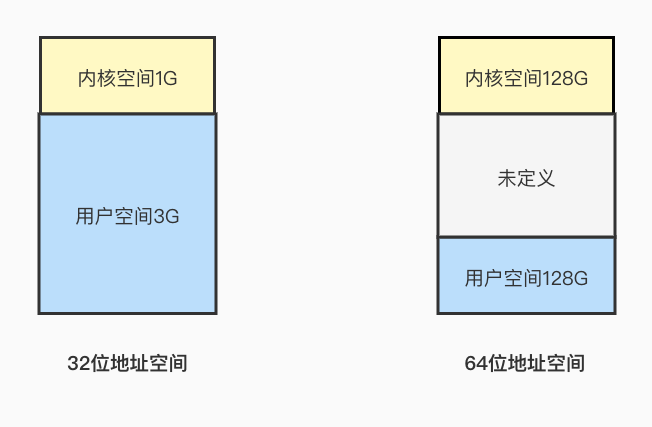
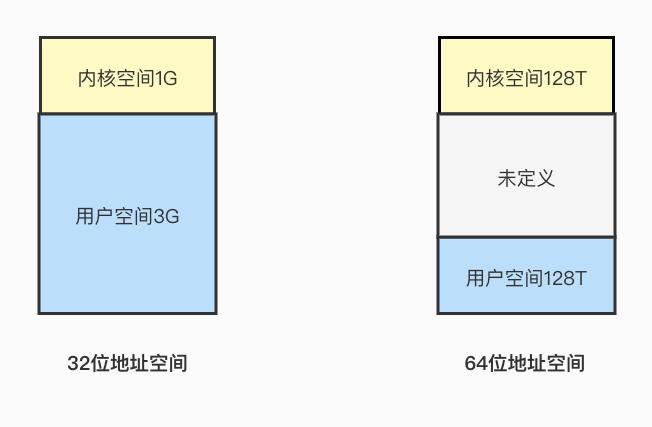
Site updated: 2021-11-07 21:09:48

Changed region(s): [[0.7055, 0.1522, 0.9202, 0.2131], [0.7055, 0.6089, 0.9202, 0.6698]]

diff --git a/2021/11/07/【JAVA】IO访问方式/index.html b/2021/11/07/【JAVA】IO访问方式/index.html
@@ -79,24 +79,24 @@
 
 
 
-<meta name="description" content="物理内存 计算机物理内存条的容量，比如我们买电脑会关注内存大小有多少G，这个容量就是计算机的物理内存。 虚拟内存 操作系统为每个进程分配了独立的虚拟地址空间，也就是虚拟内存，操作系统的位数不同，虚拟地址空间的大小也不同。32位操作系统虚拟地址空间大小为4G，64位操作系统虚拟地址空间大小为128G，虚拟地址空间又分为用户空间和内核空间。 既然每个进程都拥有一块独立的虚拟地址空间，那么所有进程的虚拟">
+<meta name="description" content="物理内存 计算机物理内存条的容量，比如我们买电脑会关注内存大小有多少G，这个容量就是计算机的物理内存。 虚拟内存 操作系统为每个进程分配了独立的虚拟地址空间，也就是虚拟内存，虚拟地址空间又分为用户空间和内核空间，操作系统的位数不同，虚拟地址空间的大小也不同，32位操作系统虚拟地址内核空间为1G，用户空间大小为3G，64位操作系统用户空间和内核空间大小各为128T： 既然每个进程都拥有一块独立的虚拟">
 <meta name="keywords" content="JAVA">
 <meta property="og:type" content="article">
 <meta property="og:title" content="【JAVA】IO访问方式">
 <meta property="og:url" content="http://yoursite.com/2021/11/07/【JAVA】IO访问方式/index.html">
 <meta property="og:site_name" content="SHAN">
-<meta property="og:description" content="物理内存 计算机物理内存条的容量，比如我们买电脑会关注内存大小有多少G，这个容量就是计算机的物理内存。 虚拟内存 操作系统为每个进程分配了独立的虚拟地址空间，也就是虚拟内存，操作系统的位数不同，虚拟地址空间的大小也不同。32位操作系统虚拟地址空间大小为4G，64位操作系统虚拟地址空间大小为128G，虚拟地址空间又分为用户空间和内核空间。 既然每个进程都拥有一块独立的虚拟地址空间，那么所有进程的虚拟">
+<meta property="og:description" content="物理内存 计算机物理内存条的容量，比如我们买电脑会关注内存大小有多少G，这个容量就是计算机的物理内存。 虚拟内存 操作系统为每个进程分配了独立的虚拟地址空间，也就是虚拟内存，虚拟地址空间又分为用户空间和内核空间，操作系统的位数不同，虚拟地址空间的大小也不同，32位操作系统虚拟地址内核空间为1G，用户空间大小为3G，64位操作系统用户空间和内核空间大小各为128T： 既然每个进程都拥有一块独立的虚拟">
 <meta property="og:locale" content="default">
 <meta property="og:image" content="http://yoursite.com/images/虚拟地址.jpg">
-<meta property="og:image" content="http://yoursite.com/2021/11/07/【JAVA】IO访问方式/images/文件io.jpg">
-<meta property="og:image" content="http://yoursite.com/2021/11/07/【JAVA】IO访问方式/images/网络io.jpg">
-<meta property="og:image" content="http://yoursite.com/2021/11/07/【JAVA】IO访问方式/images/标准io.jpg">
-<meta property="og:image" content="http://yoursite.com/2021/11/07/【JAVA】IO访问方式/images/直接io.jpg">
-<meta property="og:image" content="http://yoursite.com/2021/11/07/【JAVA】IO访问方式/images/内存映射.jpg">
-<meta property="og:updated_time" content="2021-11-07T12:54:51.396Z">
+<meta property="og:image" content="http://yoursite.com/images/文件io.jpg">
+<meta property="og:image" content="http://yoursite.com/images/网络io.jpg">
+<meta property="og:image" content="http://yoursite.com/images/标准io.jpg">
+<meta property="og:image" content="http://yoursite.com/images/直接io.jpg">
+<meta property="og:image" content="http://yoursite.com/images/内存映射.jpg">
+<meta property="og:updated_time" content="2021-11-07T13:09:39.046Z">
 <meta name="twitter:card" content="summary">
 <meta name="twitter:title" content="【JAVA】IO访问方式">
-<meta name="twitter:description" content="物理内存 计算机物理内存条的容量，比如我们买电脑会关注内存大小有多少G，这个容量就是计算机的物理内存。 虚拟内存 操作系统为每个进程分配了独立的虚拟地址空间，也就是虚拟内存，操作系统的位数不同，虚拟地址空间的大小也不同。32位操作系统虚拟地址空间大小为4G，64位操作系统虚拟地址空间大小为128G，虚拟地址空间又分为用户空间和内核空间。 既然每个进程都拥有一块独立的虚拟地址空间，那么所有进程的虚拟">
+<meta name="twitter:description" content="物理内存 计算机物理内存条的容量，比如我们买电脑会关注内存大小有多少G，这个容量就是计算机的物理内存。 虚拟内存 操作系统为每个进程分配了独立的虚拟地址空间，也就是虚拟内存，虚拟地址空间又分为用户空间和内核空间，操作系统的位数不同，虚拟地址空间的大小也不同，32位操作系统虚拟地址内核空间为1G，用户空间大小为3G，64位操作系统用户空间和内核空间大小各为128T： 既然每个进程都拥有一块独立的虚拟">
 <meta name="twitter:image" content="http://yoursite.com/images/虚拟地址.jpg">
 
 
@@ -310,7 +310,7 @@
         <p><strong>物理内存</strong></p>
 <p>计算机物理内存条的容量，比如我们买电脑会关注内存大小有多少G，这个容量就是计算机的物理内存。</p>
 <p><strong>虚拟内存</strong></p>
-<p>操作系统为每个进程分配了独立的虚拟地址空间，也就是虚拟内存，操作系统的位数不同，虚拟地址空间的大小也不同。32位操作系统虚拟地址空间大小为4G，64位操作系统虚拟地址空间大小为128G，虚拟地址空间又分为用户空间和内核空间。<br><img src="/images/虚拟地址.jpg" alt=""></p>
+<p>操作系统为每个进程分配了独立的虚拟地址空间，也就是虚拟内存，虚拟地址空间又分为用户空间和内核空间，操作系统的位数不同，虚拟地址空间的大小也不同，32位操作系统虚拟地址内核空间为1G，用户空间大小为3G，64位操作系统用户空间和内核空间大小各为128T：<br><img src="/images/虚拟地址.jpg" alt=""></p>
 <p>既然每个进程都拥有一块独立的虚拟地址空间，那么所有进程的虚拟地址空间大小加起来必定大于物理内存的大小，所以虚拟地址空间只是一个虚拟的概念，只有需要分配内存的时候才会为虚拟内存分配物理内存，并通过内存映射来管理虚拟地址和物理内存地址之间的映射关系。</p>
 <p><strong>用户空间 / 内核空间</strong></p>
 <p><strong>用户空间：</strong>是运行用户程序代码的地方，为了保证系统内核的安全，它不能直接访问内存等硬件设备，必须通过系统调用进入到内核空间来访问那些受限的资源。</p>
@@ -318,7 +318,7 @@
 <p><strong>用户态：</strong>进程运行在用户空间时处于用户态。</p>
 <p><strong>内核态：</strong>程运行在内核空间时处于内核态。</p>
 <h3 id="文件I-O"><a href="#文件I-O" class="headerlink" title="文件I/O"></a>文件I/O</h3><p>比如我们启动了一个java程序，此时运行在用户空间（用户态），接着准备做一个读取磁盘文件的操作，由于用户空间是无法直接从磁盘读取文件的，所以需要调用内核提供的接口来完成文件的读取，调用内核的接口的过程中由用户空间进入到了内核空间（内核态），操作系统从磁盘读取文件到内核的缓冲区，从内核的缓冲区再拷贝到用户空间才完成文件的读取操作。</p>
-<p><img src="./images/文件io.jpg" alt=""></p>
+<p><img src="/images/文件io.jpg" alt=""></p>
 <ol>
 <li>应用程序发起系统调用</li>
 <li>从用户空间切换到内核空间，内核通过DMA从磁盘拷贝数据到内核缓冲区</li>
@@ -326,13 +326,13 @@
 </ol>
 <p><strong>可以发现，整个读取过程发生了两次数据拷贝，一次是DMA将磁盘上的文件数据拷贝到内核缓冲区，一次是将内核缓冲区的数据拷贝到用户缓冲区。</strong>写操作与读取操作类似，只不过是将用户缓冲区的数据拷贝到内核缓冲区，再将内核缓冲区的数据拷贝到文件。</p>
 <h3 id="网络I-O"><a href="#网络I-O" class="headerlink" title="网络I/O"></a>网络I/O</h3><p>网络I/O与文件I/O的底层原理一致，只不过文件I/O是从磁盘读取文件，网络I/O是从网卡中读取数据，客户端与服务端建立连接，当有数据到达时，从网卡中读取数据到内核缓冲区，再将内核缓冲区的数据复制到用户空间的缓冲区。</p>
-<p><img src="./images/网络io.jpg" alt=""></p>
+<p><img src="/images/网络io.jpg" alt=""></p>
 <h3 id="标准I-O"><a href="#标准I-O" class="headerlink" title="标准I/O"></a>标准I/O</h3><p>也称缓存I/O，上面提到的文件I/O和网络I/O读取数据的方式都是使用的标准I/O，需要将数据先拷贝到内核缓冲区，再将内核缓冲区的数据拷贝到用户缓冲区，数据经过两次拷贝，内核缓冲区和用户缓冲区分别指向不同的物理内存。</p>
-<p><img src="./images/标准io.jpg" alt=""></p>
+<p><img src="/images/标准io.jpg" alt=""></p>
 <p>标准I/O读取文件：</p>
 <figure class="highlight java"><table><tr><td class="gutter"><pre><span class="line">1</span><br><span class="line">2</span><br><span class="line">3</span><br><span class="line">4</span><br><span class="line">5</span><br><span class="line">6</span><br><span class="line">7</span><br><span class="line">8</span><br><span class="line">9</span><br><span class="line">10</span><br><span class="line">11</span><br><span class="line">12</span><br><span class="line">13</span><br><span class="line">14</span><br><span class="line">15</span><br><span class="line">16</span><br></pre></td><td class="code"><pre><span class="line"><span class="keyword">public</span> <span class="class"><span class="keyword">class</span> <span class="title">InputStreamTest</span> </span>&#123;</span><br><span class="line">    <span class="function"><span class="keyword">public</span> <span class="keyword">static</span> <span class="keyword">void</span> <span class="title">main</span><span class="params">(String[] args)</span> </span>&#123;</span><br><span class="line">        File file = <span class="keyword">new</span> File(<span class="string">"/Users/sml/test.txt"</span>);</span><br><span class="line">        <span class="keyword">try</span> (InputStream is = <span class="keyword">new</span> FileInputStream(file))&#123;</span><br><span class="line">            <span class="comment">// 建立缓冲区</span></span><br><span class="line">            <span class="keyword">byte</span>[] bytes = <span class="keyword">new</span> <span class="keyword">byte</span>[<span class="number">1024</span>];</span><br><span class="line">            <span class="keyword">int</span> len;</span><br><span class="line">            <span class="keyword">while</span> ((len = is.read(bytes)) != -<span class="number">1</span>) &#123;</span><br><span class="line">                System.out.println(<span class="keyword">new</span> String(bytes));</span><br><span class="line">            &#125;</span><br><span class="line"></span><br><span class="line">        &#125; <span class="keyword">catch</span> (IOException e) &#123;</span><br><span class="line">            e.printStackTrace();</span><br><span class="line">        &#125;</span><br><span class="line">    &#125;</span><br><span class="line">&#125;</span><br></pre></td></tr></table></figure>
 <h3 id="直接I-O"><a href="#直接I-O" class="headerlink" title="直接I/O"></a>直接I/O</h3><p>应用程序直接访问磁盘数据，绕过了内核缓冲区，减少了一次从内核缓冲区拷贝到用户缓冲区的过程。</p>
-<p><img src="./images/直接io.jpg" alt=""></p>
+<p><img src="/images/直接io.jpg" alt=""></p>
 <p><strong>DirectByteBuffer</strong></p>
 <p>Java NIO中提供了DirectByteBuffer，可以使用堆外内存，通过ByteBuffer的allocateDirect方法可以分配堆外内存：</p>
 <figure class="highlight java"><table><tr><td class="gutter"><pre><span class="line">1</span><br><span class="line">2</span><br><span class="line">3</span><br></pre></td><td class="code"><pre><span class="line"><span class="function"><span class="keyword">public</span> <span class="keyword">static</span> ByteBuffer <span class="title">allocateDirect</span><span class="params">(<span class="keyword">int</span> capacity)</span> </span>&#123;</span><br><span class="line">    <span class="keyword">return</span> <span class="keyword">new</span> DirectByteBuffer(capacity);</span><br><span class="line">&#125;</span><br></pre></td></tr></table></figure>
@@ -345,7 +345,7 @@
 <li>应用程序访问虚拟内存中的某个地址，发现无法在页表中查到数据，产生缺页异常，此时进入内核空间，分配物理内存，读取文件里面的数据并写入物理内存，<strong>同时建立物理内存和虚拟内存之间的映射，维护到页表中</strong></li>
 <li>缺页异常处理完毕，此时用户空间可以通过虚拟地址访问物理内存中映射的文件数据</li>
 </ol>
-<p><img src="./images/内存映射.jpg" alt=""></p>
+<p><img src="/images/内存映射.jpg" alt=""></p>
 <p><strong>从文件映射的流程中可以看出它与缓存I/O相比，少了从内核缓冲区将数据拷贝到用户缓冲区的步骤，减少了一次拷贝。</strong></p>
 <p>Java NIO中提供了<strong>MappedByteBuffer</strong>来处理文件映射，下面是一个读取文件的例子：</p>
 <figure class="highlight java"><table><tr><td class="gutter"><pre><span class="line">1</span><br><span class="line">2</span><br><span class="line">3</span><br><span class="line">4</span><br><span class="line">5</span><br><span class="line">6</span><br><span class="line">7</span><br><span class="line">8</span><br><span class="line">9</span><br><span class="line">10</span><br><span class="line">11</span><br><span class="line">12</span><br><span class="line">13</span><br><span class="line">14</span><br><span class="line">15</span><br><span class="line">16</span><br><span class="line">17</span><br><span class="line">18</span><br><span class="line">19</span><br><span class="line">20</span><br><span class="line">21</span><br><span class="line">22</span><br><span class="line">23</span><br><span class="line">24</span><br><span class="line">25</span><br><span class="line">26</span><br><span class="line">27</span><br><span class="line">28</span><br><span class="line">29</span><br><span class="line">30</span><br></pre></td><td class="code"><pre><span class="line"><span class="keyword">public</span> <span class="class"><span class="keyword">class</span> <span class="title">MappedByteBufferTest</span> </span>&#123;</span><br><span class="line"></span><br><span class="line">    <span class="function"><span class="keyword">public</span> <span class="keyword">static</span> <span class="keyword">void</span> <span class="title">main</span><span class="params">(String[] args)</span> </span>&#123;</span><br><span class="line">        </span><br><span class="line">        <span class="keyword">try</span> (RandomAccessFile file = <span class="keyword">new</span> RandomAccessFile(<span class="keyword">new</span> File(<span class="string">"/Users/sml/test.txt"</span>), <span class="string">"r"</span>)) &#123;</span><br><span class="line">            <span class="comment">// 获取FileChannel</span></span><br><span class="line">            FileChannel fileChannel = file.getChannel();</span><br><span class="line">            <span class="keyword">long</span> size = fileChannel.size();</span><br><span class="line">            <span class="comment">// 调用map方法进行文件映射，返回MappedByteBuffer</span></span><br><span class="line">            MappedByteBuffer mappedByteBuffer = fileChannel.map(FileChannel.MapMode.READ_ONLY, <span class="number">0</span>, size);</span><br><span class="line">            <span class="keyword">byte</span>[] bytes = <span class="keyword">new</span> <span class="keyword">byte</span>[(<span class="keyword">int</span>)size];</span><br><span class="line">            <span class="keyword">for</span> (<span class="keyword">int</span> i = <span class="number">0</span>; i &lt; size; i++) &#123;</span><br><span class="line">                <span class="comment">// 读取数据</span></span><br><span class="line">                bytes[i] = mappedByteBuffer.get();</span><br><span class="line">            &#125;</span><br><span class="line">            <span class="keyword">try</span> (ByteArrayInputStream bis = <span class="keyword">new</span> ByteArrayInputStream(bytes)) &#123;</span><br><span class="line">                Scanner scan = <span class="keyword">new</span> Scanner(bis).useDelimiter(<span class="string">" "</span>);</span><br><span class="line">                <span class="keyword">while</span> (scan.hasNext()) &#123;</span><br><span class="line">                    System.out.print(scan.next() + <span class="string">" "</span>);</span><br><span class="line">                &#125;</span><br><span class="line">            &#125;<span class="keyword">catch</span> (Exception e) &#123;</span><br><span class="line">                e.printStackTrace();</span><br><span class="line">            &#125;</span><br><span class="line">           </span><br><span class="line">        &#125; <span class="keyword">catch</span> (Exception e) &#123;</span><br><span class="line">            e.printStackTrace();</span><br><span class="line">        &#125;</span><br><span class="line"></span><br><span class="line">    &#125;</span><br><span class="line">&#125;</span><br></pre></td></tr></table></figure>

diff --git a/index.html b/index.html
@@ -303,7 +303,7 @@
             <p><strong>物理内存</strong></p>
 <p>计算机物理内存条的容量，比如我们买电脑会关注内存大小有多少G，这个容量就是计算机的物理内存。</p>
 <p><strong>虚拟内存</strong></p>
-<p>操作系统为每个进程分配了独立的虚拟地址空间，也就是虚拟内存，操作系统的位数不同，虚拟地址空间的大小也不同。32位操作系统虚拟地址空间大小为4G，64位操作系统虚拟地址空间大小为128G，虚拟地址空间又分为用户空间和内核空间。<br><img src="/images/虚拟地址.jpg" alt=""></p>
+<p>操作系统为每个进程分配了独立的虚拟地址空间，也就是虚拟内存，虚拟地址空间又分为用户空间和内核空间，操作系统的位数不同，虚拟地址空间的大小也不同，32位操作系统虚拟地址内核空间为1G，用户空间大小为3G，64位操作系统用户空间和内核空间大小各为128T：<br><img src="/images/虚拟地址.jpg" alt=""></p>
 <p>既然每个进程都拥有一块独立的虚拟地址空间，那么所有进程的虚拟地址空间大小加起来必定大于物理内存的大小，所以虚拟地址空间只是一个虚拟的概念，只有需要分配内存的时候才会为虚拟内存分配物理内存，并通过内存映射来管理虚拟地址和物理内存地址之间的映射关系。</p>
 <p><strong>用户空间 / 内核空间</strong></p>
 <p><strong>用户空间：</strong>是运行用户程序代码的地方，为了保证系统内核的安全，它不能直接访问内存等硬件设备，必须通过系统调用进入到内核空间来访问那些受限的资源。</p>
@@ -311,7 +311,7 @@
 <p><strong>用户态：</strong>进程运行在用户空间时处于用户态。</p>
 <p><strong>内核态：</strong>程运行在内核空间时处于内核态。</p>
 <h3 id="文件I-O"><a href="#文件I-O" class="headerlink" title="文件I/O"></a>文件I/O</h3><p>比如我们启动了一个java程序，此时运行在用户空间（用户态），接着准备做一个读取磁盘文件的操作，由于用户空间是无法直接从磁盘读取文件的，所以需要调用内核提供的接口来完成文件的读取，调用内核的接口的过程中由用户空间进入到了内核空间（内核态），操作系统从磁盘读取文件到内核的缓冲区，从内核的缓冲区再拷贝到用户空间才完成文件的读取操作。</p>
-<p><img src="./images/文件io.jpg" alt=""></p>
+<p><img src="/images/文件io.jpg" alt=""></p>
 <ol>
 <li>应用程序发起系统调用</li>
 <li>从用户空间切换到内核空间，内核通过DMA从磁盘拷贝数据到内核缓冲区</li>
@@ -319,13 +319,13 @@
 </ol>
 <p><strong>可以发现，整个读取过程发生了两次数据拷贝，一次是DMA将磁盘上的文件数据拷贝到内核缓冲区，一次是将内核缓冲区的数据拷贝到用户缓冲区。</strong>写操作与读取操作类似，只不过是将用户缓冲区的数据拷贝到内核缓冲区，再将内核缓冲区的数据拷贝到文件。</p>
 <h3 id="网络I-O"><a href="#网络I-O" class="headerlink" title="网络I/O"></a>网络I/O</h3><p>网络I/O与文件I/O的底层原理一致，只不过文件I/O是从磁盘读取文件，网络I/O是从网卡中读取数据，客户端与服务端建立连接，当有数据到达时，从网卡中读取数据到内核缓冲区，再将内核缓冲区的数据复制到用户空间的缓冲区。</p>
-<p><img src="./images/网络io.jpg" alt=""></p>
+<p><img src="/images/网络io.jpg" alt=""></p>
 <h3 id="标准I-O"><a href="#标准I-O" class="headerlink" title="标准I/O"></a>标准I/O</h3><p>也称缓存I/O，上面提到的文件I/O和网络I/O读取数据的方式都是使用的标准I/O，需要将数据先拷贝到内核缓冲区，再将内核缓冲区的数据拷贝到用户缓冲区，数据经过两次拷贝，内核缓冲区和用户缓冲区分别指向不同的物理内存。</p>
-<p><img src="./images/标准io.jpg" alt=""></p>
+<p><img src="/images/标准io.jpg" alt=""></p>
 <p>标准I/O读取文件：</p>
 <figure class="highlight java"><table><tr><td class="gutter"><pre><span class="line">1</span><br><span class="line">2</span><br><span class="line">3</span><br><span class="line">4</span><br><span class="line">5</span><br><span class="line">6</span><br><span class="line">7</span><br><span class="line">8</span><br><span class="line">9</span><br><span class="line">10</span><br><span class="line">11</span><br><span class="line">12</span><br><span class="line">13</span><br><span class="line">14</span><br><span class="line">15</span><br><span class="line">16</span><br></pre></td><td class="code"><pre><span class="line"><span class="keyword">public</span> <span class="class"><span class="keyword">class</span> <span class="title">InputStreamTest</span> </span>&#123;</span><br><span class="line">    <span class="function"><span class="keyword">public</span> <span class="keyword">static</span> <span class="keyword">void</span> <span class="title">main</span><span class="params">(String[] args)</span> </span>&#123;</span><br><span class="line">        File file = <span class="keyword">new</span> File(<span class="string">"/Users/sml/test.txt"</span>);</span><br><span class="line">        <span class="keyword">try</span> (InputStream is = <span class="keyword">new</span> FileInputStream(file))&#123;</span><br><span class="line">            <span class="comment">// 建立缓冲区</span></span><br><span class="line">            <span class="keyword">byte</span>[] bytes = <span class="keyword">new</span> <span class="keyword">byte</span>[<span class="number">1024</span>];</span><br><span class="line">            <span class="keyword">int</span> len;</span><br><span class="line">            <span class="keyword">while</span> ((len = is.read(bytes)) != -<span class="number">1</span>) &#123;</span><br><span class="line">                System.out.println(<span class="keyword">new</span> String(bytes));</span><br><span class="line">            &#125;</span><br><span class="line"></span><br><span class="line">        &#125; <span class="keyword">catch</span> (IOException e) &#123;</span><br><span class="line">            e.printStackTrace();</span><br><span class="line">        &#125;</span><br><span class="line">    &#125;</span><br><span class="line">&#125;</span><br></pre></td></tr></table></figure>
 <h3 id="直接I-O"><a href="#直接I-O" class="headerlink" title="直接I/O"></a>直接I/O</h3><p>应用程序直接访问磁盘数据，绕过了内核缓冲区，减少了一次从内核缓冲区拷贝到用户缓冲区的过程。</p>
-<p><img src="./images/直接io.jpg" alt=""></p>
+<p><img src="/images/直接io.jpg" alt=""></p>
 <p><strong>DirectByteBuffer</strong></p>
 <p>Java NIO中提供了DirectByteBuffer，可以使用堆外内存，通过ByteBuffer的allocateDirect方法可以分配堆外内存：</p>
 <figure class="highlight java"><table><tr><td class="gutter"><pre><span class="line">1</span><br><span class="line">2</span><br><span class="line">3</span><br></pre></td><td class="code"><pre><span class="line"><span class="function"><span class="keyword">public</span> <span class="keyword">static</span> ByteBuffer <span class="title">allocateDirect</span><span class="params">(<span class="keyword">int</span> capacity)</span> </span>&#123;</span><br><span class="line">    <span class="keyword">return</span> <span class="keyword">new</span> DirectByteBuffer(capacity);</span><br><span class="line">&#125;</span><br></pre></td></tr></table></figure>
@@ -338,7 +338,7 @@
 <li>应用程序访问虚拟内存中的某个地址，发现无法在页表中查到数据，产生缺页异常，此时进入内核空间，分配物理内存，读取文件里面的数据并写入物理内存，<strong>同时建立物理内存和虚拟内存之间的映射，维护到页表中</strong></li>
 <li>缺页异常处理完毕，此时用户空间可以通过虚拟地址访问物理内存中映射的文件数据</li>
 </ol>
-<p><img src="./images/内存映射.jpg" alt=""></p>
+<p><img src="/images/内存映射.jpg" alt=""></p>
 <p><strong>从文件映射的流程中可以看出它与缓存I/O相比，少了从内核缓冲区将数据拷贝到用户缓冲区的步骤，减少了一次拷贝。</strong></p>
 <p>Java NIO中提供了<strong>MappedByteBuffer</strong>来处理文件映射，下面是一个读取文件的例子：</p>
 <figure class="highlight java"><table><tr><td class="gutter"><pre><span class="line">1</span><br><span class="line">2</span><br><span class="line">3</span><br><span class="line">4</span><br><span class="line">5</span><br><span class="line">6</span><br><span class="line">7</span><br><span class="line">8</span><br><span class="line">9</span><br><span class="line">10</span><br><span class="line">11</span><br><span class="line">12</span><br><span class="line">13</span><br><span class="line">14</span><br><span class="line">15</span><br><span class="line">16</span><br><span class="line">17</span><br><span class="line">18</span><br><span class="line">19</span><br><span class="line">20</span><br><span class="line">21</span><br><span class="line">22</span><br><span class="line">23</span><br><span class="line">24</span><br><span class="line">25</span><br><span class="line">26</span><br><span class="line">27</span><br><span class="line">28</span><br><span class="line">29</span><br><span class="line">30</span><br></pre></td><td class="code"><pre><span class="line"><span class="keyword">public</span> <span class="class"><span class="keyword">class</span> <span class="title">MappedByteBufferTest</span> </span>&#123;</span><br><span class="line"></span><br><span class="line">    <span class="function"><span class="keyword">public</span> <span class="keyword">static</span> <span class="keyword">void</span> <span class="title">main</span><span class="params">(String[] args)</span> </span>&#123;</span><br><span class="line">        </span><br><span class="line">        <span class="keyword">try</span> (RandomAccessFile file = <span class="keyword">new</span> RandomAccessFile(<span class="keyword">new</span> File(<span class="string">"/Users/sml/test.txt"</span>), <span class="string">"r"</span>)) &#123;</span><br><span class="line">            <span class="comment">// 获取FileChannel</span></span><br><span class="line">            FileChannel fileChannel = file.getChannel();</span><br><span class="line">            <span class="keyword">long</span> size = fileChannel.size();</span><br><span class="line">            <span class="comment">// 调用map方法进行文件映射，返回MappedByteBuffer</span></span><br><span class="line">            MappedByteBuffer mappedByteBuffer = fileChannel.map(FileChannel.MapMode.READ_ONLY, <span class="number">0</span>, size);</span><br><span class="line">            <span class="keyword">byte</span>[] bytes = <span class="keyword">new</span> <span class="keyword">byte</span>[(<span class="keyword">int</span>)size];</span><br><span class="line">            <span class="keyword">for</span> (<span class="keyword">int</span> i = <span class="number">0</span>; i &lt; size; i++) &#123;</span><br><span class="line">                <span class="comment">// 读取数据</span></span><br><span class="line">                bytes[i] = mappedByteBuffer.get();</span><br><span class="line">            &#125;</span><br><span class="line">            <span class="keyword">try</span> (ByteArrayInputStream bis = <span class="keyword">new</span> ByteArrayInputStream(bytes)) &#123;</span><br><span class="line">                Scanner scan = <span class="keyword">new</span> Scanner(bis).useDelimiter(<span class="string">" "</span>);</span><br><span class="line">                <span class="keyword">while</span> (scan.hasNext()) &#123;</span><br><span class="line">                    System.out.print(scan.next() + <span class="string">" "</span>);</span><br><span class="line">                &#125;</span><br><span class="line">            &#125;<span class="keyword">catch</span> (Exception e) &#123;</span><br><span class="line">                e.printStackTrace();</span><br><span class="line">            &#125;</span><br><span class="line">           </span><br><span class="line">        &#125; <span class="keyword">catch</span> (Exception e) &#123;</span><br><span class="line">            e.printStackTrace();</span><br><span class="line">        &#125;</span><br><span class="line"></span><br><span class="line">    &#125;</span><br><span class="line">&#125;</span><br></pre></td></tr></table></figure>
